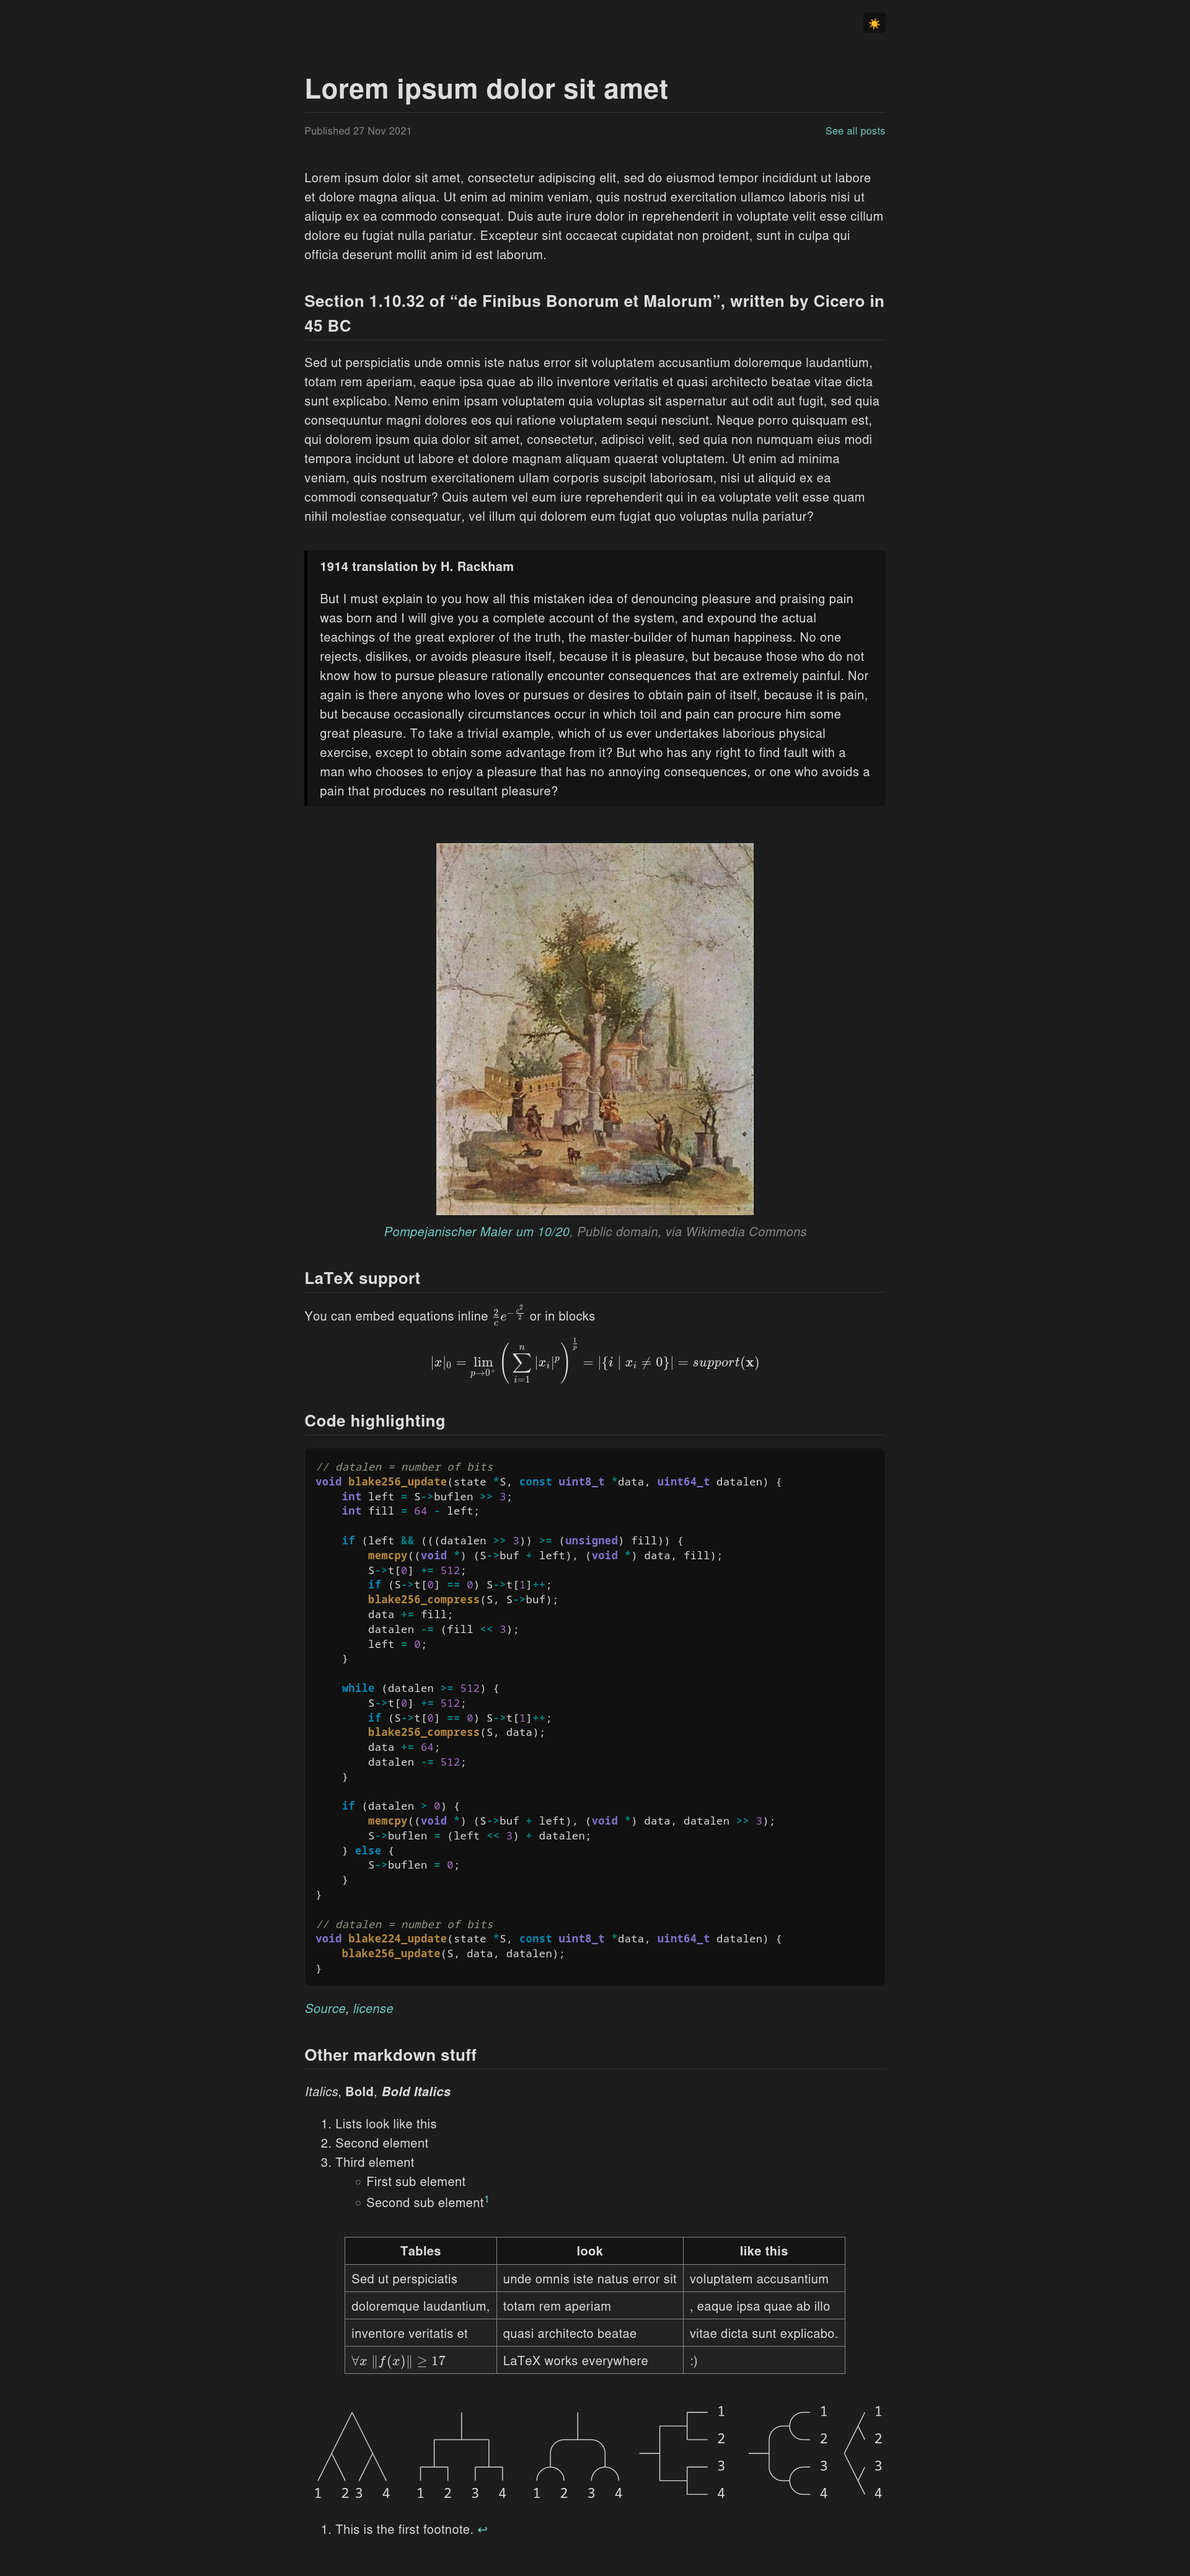
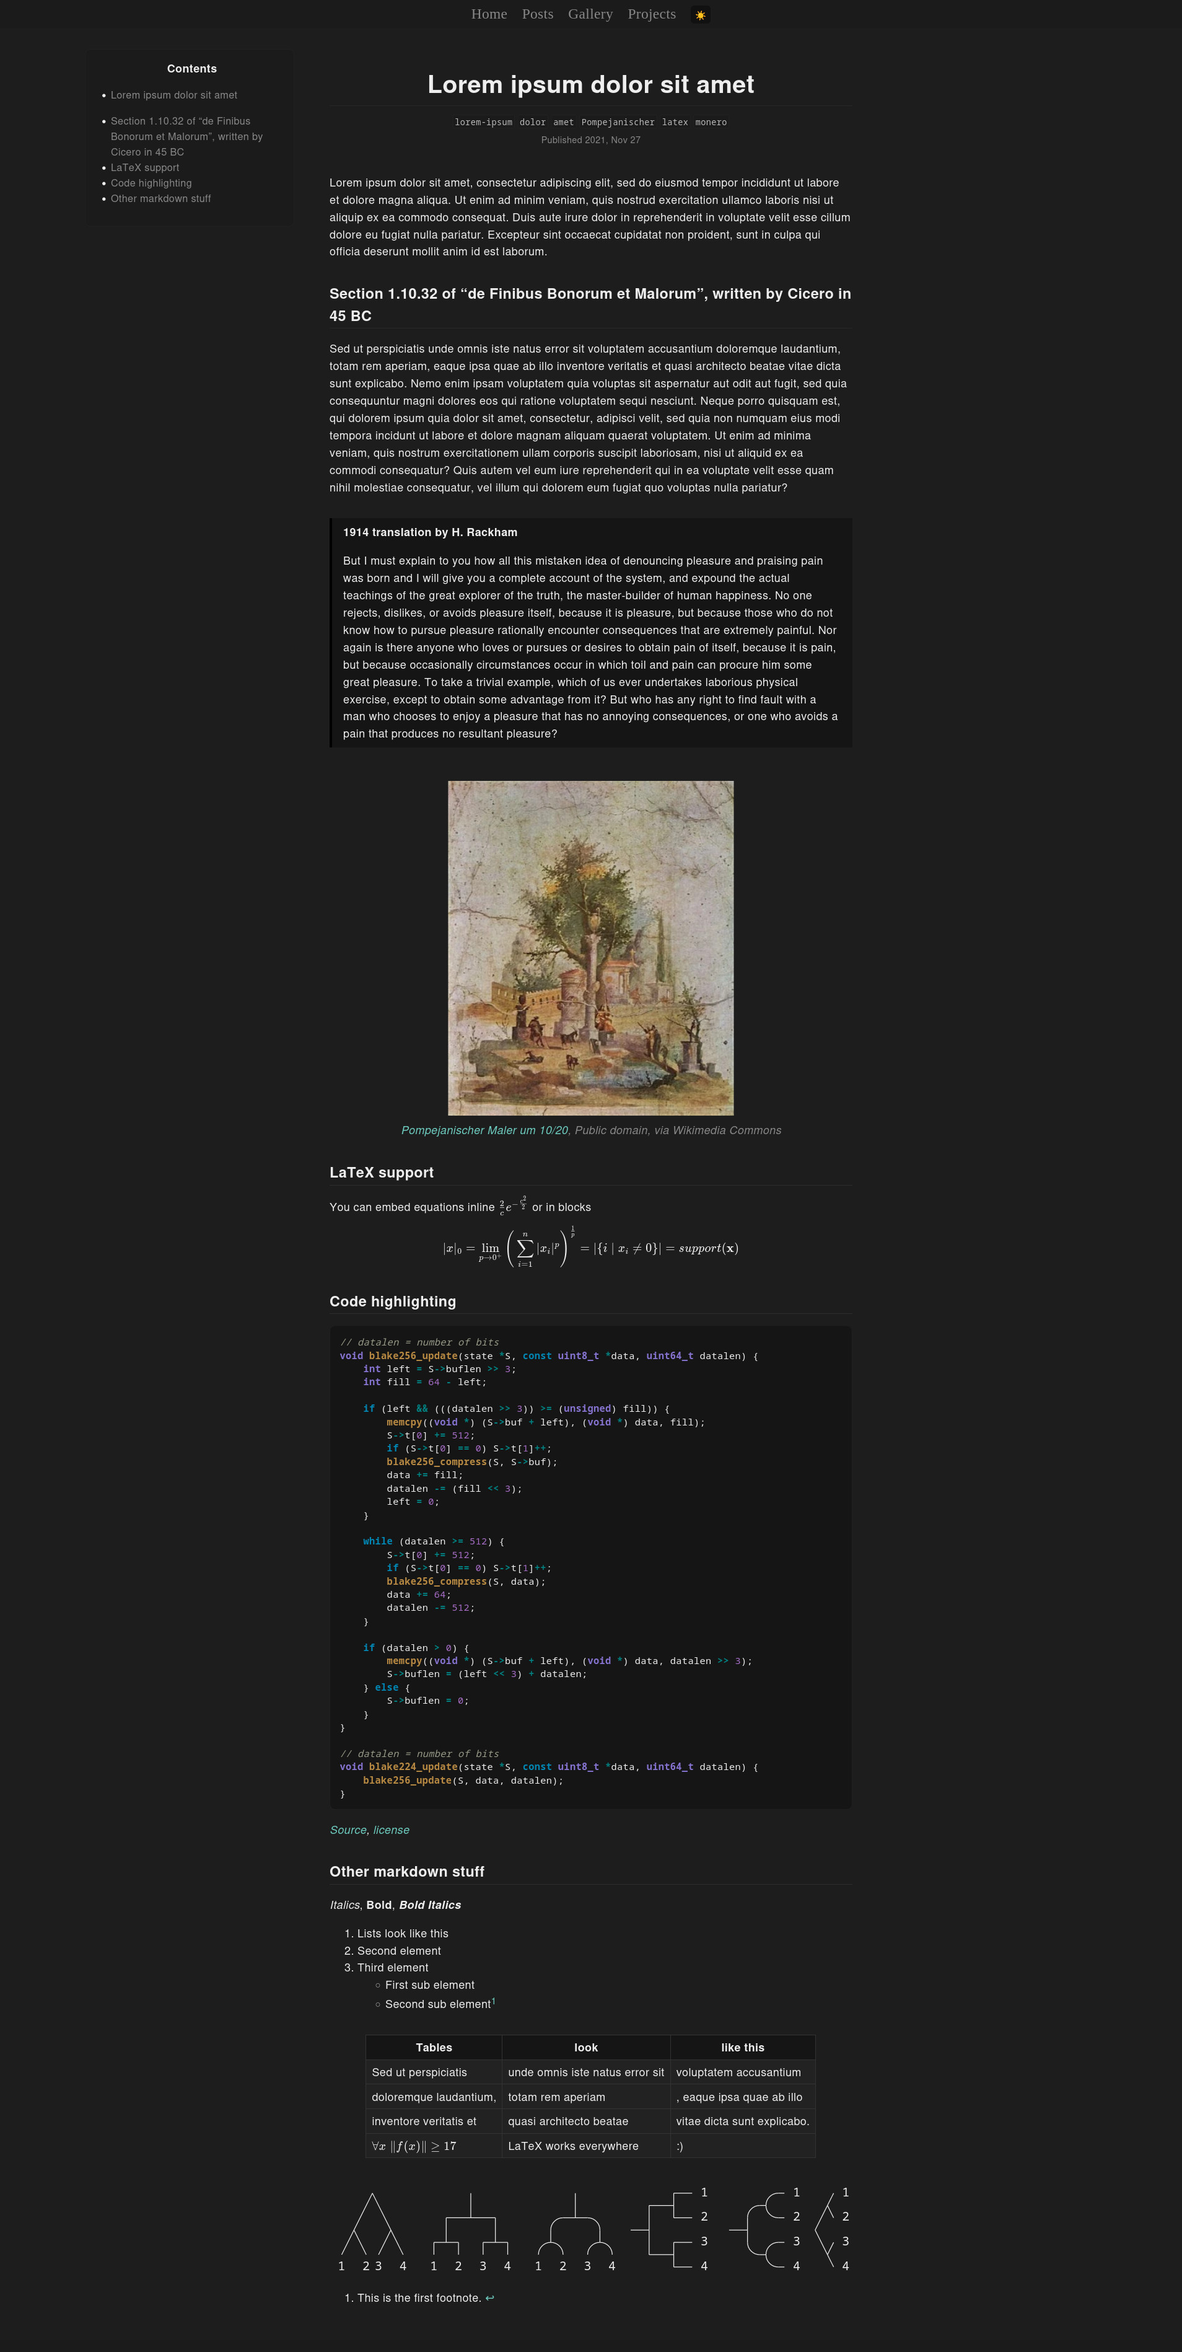
bump version, update images

diff --git a/layouts/post/single.html b/layouts/post/single.html
@@ -1,6 +1,8 @@
-{{ define "main" }}
-
+{{ define "sidebar" }}
 {{ partial "sidebar.html" .}}
+{{ end }}
+
+{{ define "main" }}
 
 <div class="wrapper">
 
@@ -10,13 +12,13 @@
 
 	{{ block "details" . }}
 	<div class="page-details-inline">
-		<!-- {{ if isset .Params "tags" }}
+		{{ if isset .Params "tags" }}
 			<div class="page-tags">
 				{{ range .Params.tags }}
 					<code class="page-tag">{{ . }}</code>
 				{{ end }}
 			</div>
-		{{ end }} -->
+		{{ end }}
 		<div class="page-date">
 			<div>
 				Published {{ .Date.Format "2006, Jan 02" }}
@@ -50,4 +52,7 @@
 	</main>
 	{{ end }}
 </div>
+
+{{ partial "navbar-bottom.html" . }}
+
 {{ end }}

diff --git a/assets/scss/malis/_layout.scss b/assets/scss/malis/_layout.scss
@@ -260,6 +260,7 @@
   .page-details-inline {
     user-select: none;
     display: block;
+    text-align: center;
     min-height: 1em;
     color: $grey-text;
     font-size: $small-font-size;
@@ -598,6 +599,7 @@
   .page-details-inline {
     user-select: none;
     display: block;
+    text-align: center;
     min-height: 1em;
     color: $grey-text-dark;
     font-size: $small-font-size-dark;

diff --git a/content/_index.md b/content/_index.md
@@ -6,9 +6,4 @@ type: _default
 
 Welcome to my website
 
-- [All posts](/posts)
-- [Gallery](/gallery)
-- [Projects](https://github.com/Infinitifall)
-
-
 {{<figure-100 src="/images/gallery/24_dark.jpeg" alt="A fractal staircase arena" em="`CTF_fractal` A fractal staircase arena">}}
